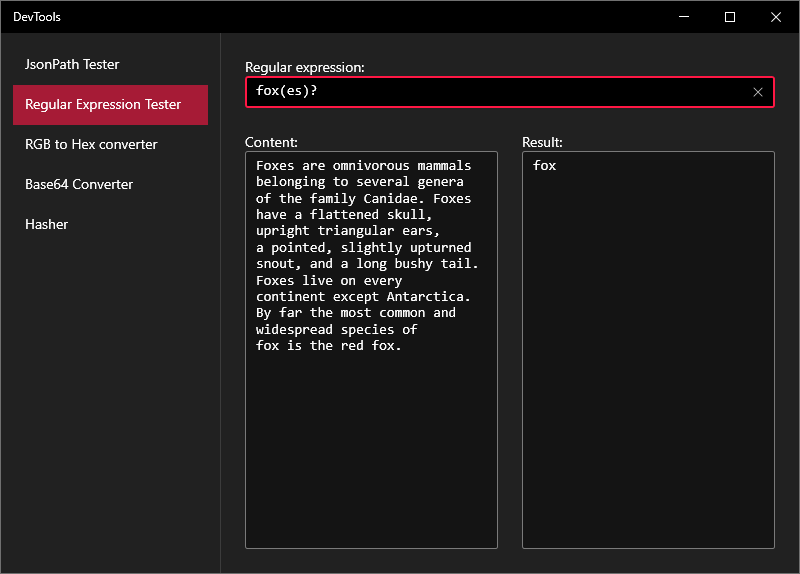
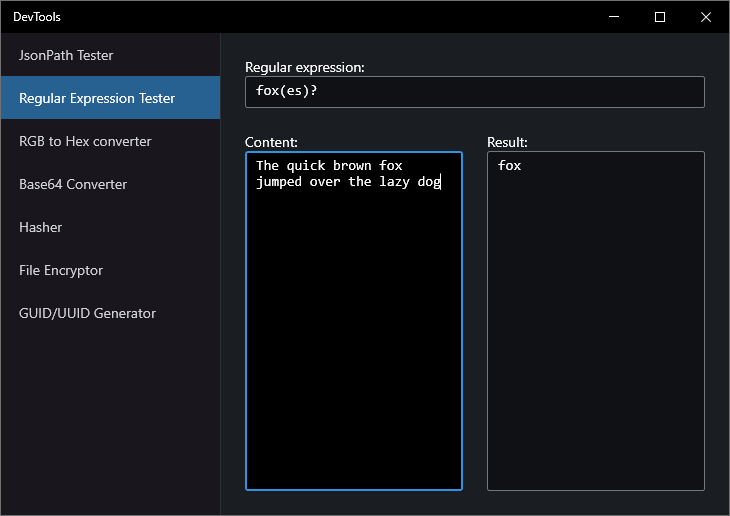
Updated README

diff --git a/src/DevTools.UI/MainWindow.xaml b/src/DevTools.UI/MainWindow.xaml
@@ -9,7 +9,8 @@
         ui:ThemeManager.IsThemeAware="True"
         ui:WindowHelper.UseModernWindowStyle="True"
         mc:Ignorable="d"
-        Title="DevTools" Height="750" Width="800">
+        Title="DevTools" Height="650" Width="730">
+    <!--Height="516" Width="730"-->
     <Window.DataContext>
         <local:DevToolsViewModel />
     </Window.DataContext>

diff --git a/src/DevTools.UI/Controls/FileEncryptor.xaml.cs b/src/DevTools.UI/Controls/FileEncryptor.xaml.cs
@@ -19,8 +19,10 @@ namespace DevTools.UI.Controls
         private void InputFilePathSelectButton_Click(object sender, RoutedEventArgs e)
         {
             if (ViewModel.IsProcessing) return;
-            Microsoft.Win32.OpenFileDialog dlg = new Microsoft.Win32.OpenFileDialog();
-            dlg.CheckFileExists = true;
+            Microsoft.Win32.OpenFileDialog dlg = new Microsoft.Win32.OpenFileDialog
+            {
+                CheckFileExists = true
+            };
 
             // Display OpenFileDialog by calling ShowDialog method 
             Nullable<bool> result = dlg.ShowDialog();

diff --git a/README.md b/README.md
@@ -1,6 +1,8 @@
 # DevTools Desktop App
 
-A privacy-focused, Windows desktop app with tools to aid development workflows. No more Googling 'RGB to Hex' and finding every search result loads megabytes of advertisements, trackers, and other JavaScript nuisances. DevTools is a native, open source app that loads zero external content and never phones home.
+A privacy-focused, Windows desktop app with tools to aid software development workflows. No more Googling 'RGB to Hex' and finding every search result loads megabytes of advertisements, trackers, and other JavaScript nuisances. 
+
+DevTools is a native, open source app that loads zero external content and never phones home.
 
 Features:
 * JsonPath tester
@@ -8,15 +10,28 @@ Features:
 * RGB to Hex converter
 * Base64 encoder and decoder
 * SHA-1 and SHA-2 (512) hasher
+* File encrytor/decryptor
+* GUID/UUID generator
 
 ## Screenshots
 
+### Json path tester:
 ![Json Path tester](/images/image01.png)
 
+### Regex tester:
 ![Regular expression tester](/images/image02.png)
 
+### RGB-to-Hex and Hex-to-RGB converter:
 ![RGB to Hex converter](/images/image03.png)
 
+### Base64 encoding and decoding:
 ![Base64 encoder and decoder](/images/image04.png)
 
-![hasher](/images/image05.png)
+### Text hasher:
+![Hasher](/images/image05.png)
+
+### File encryptor:
+![File encryptor](/images/image06.png)
+
+### GUID/UUID generator:
+![GUID/UUID generator](/images/image07.png)
